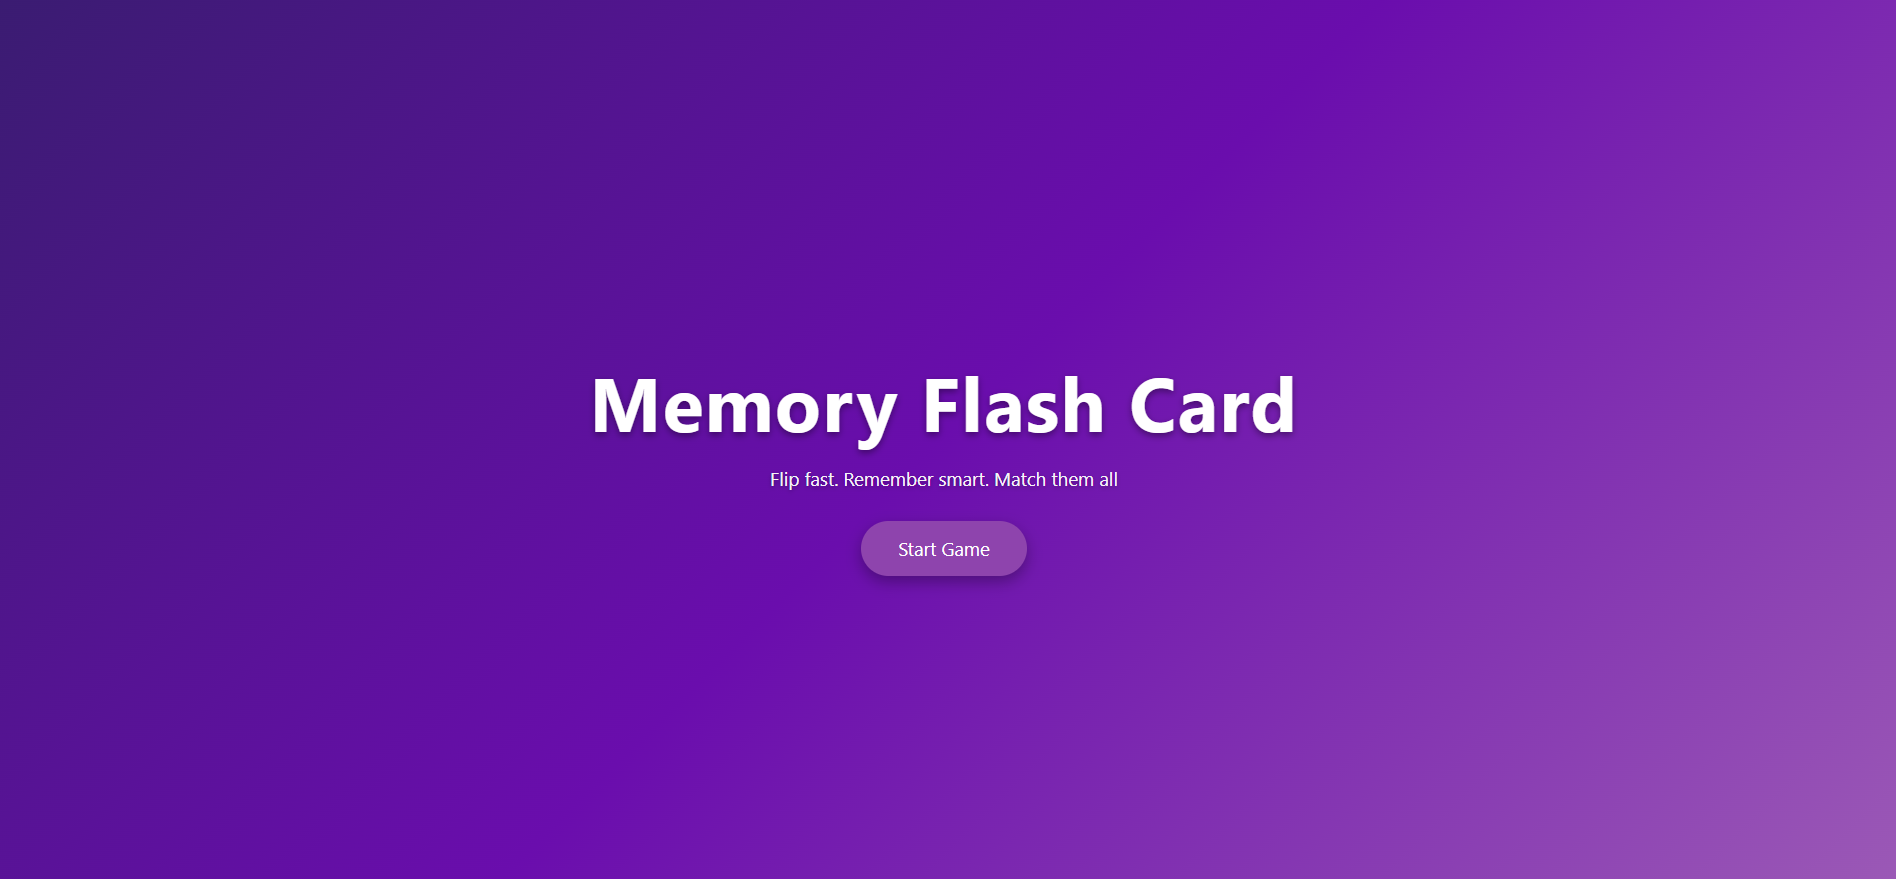
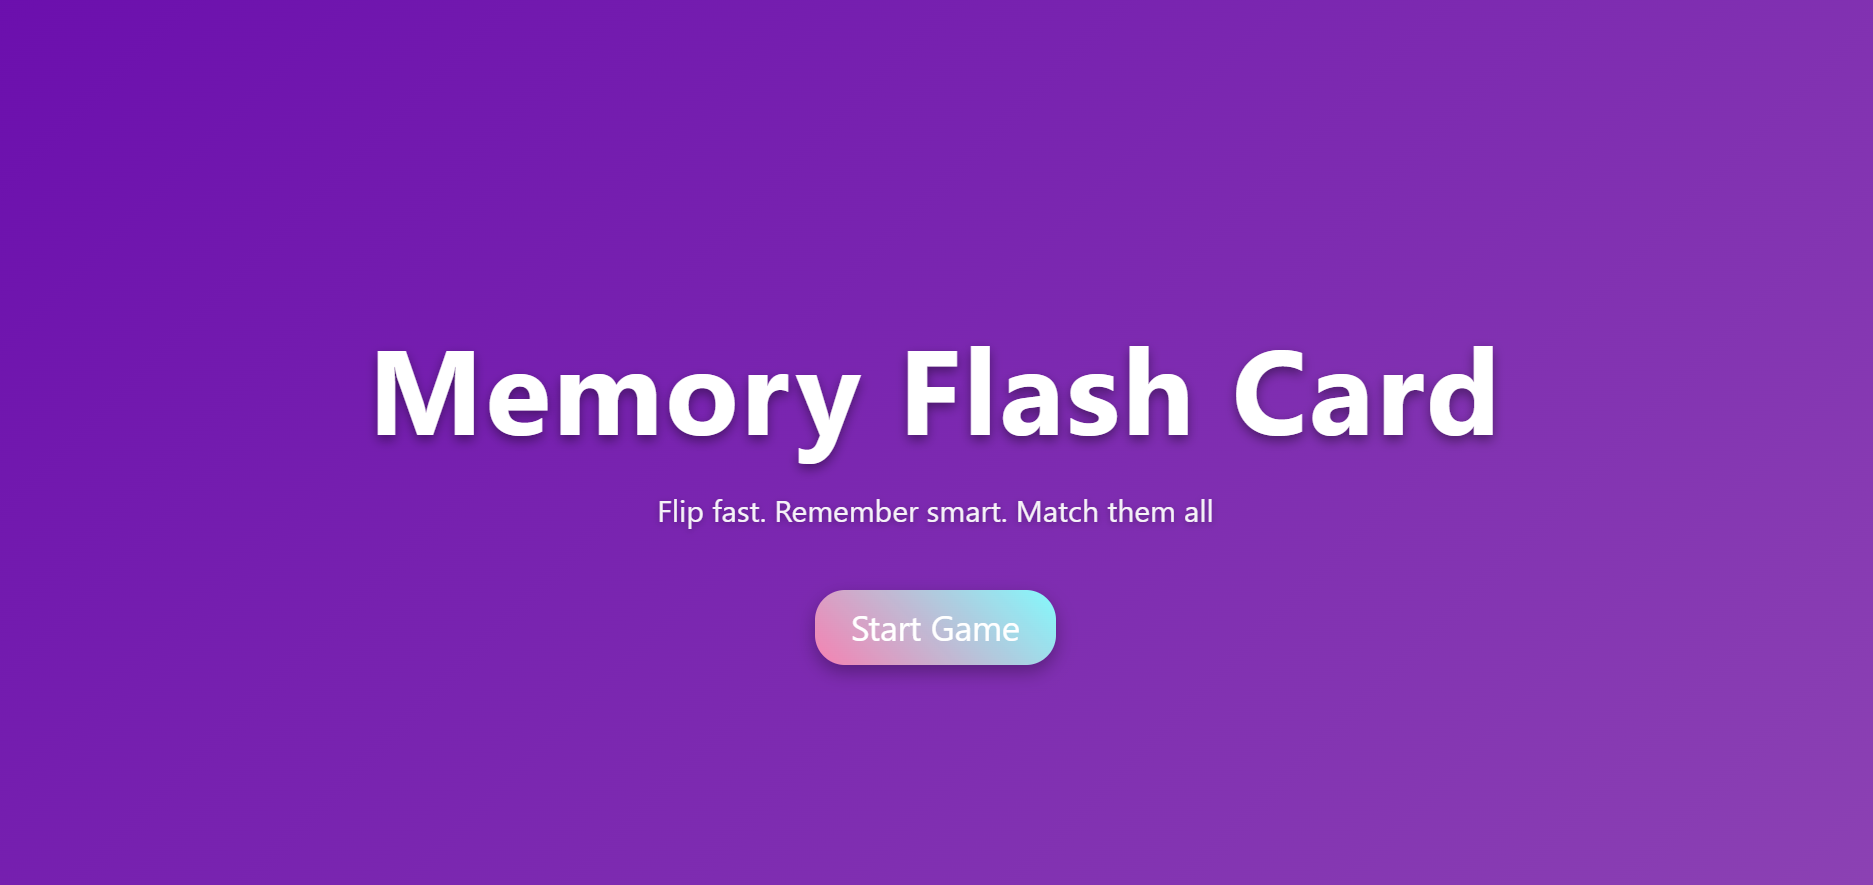
update

diff --git a/JavaScript/Easy.js b/JavaScript/Easy.js
@@ -144,13 +144,15 @@ function updateTimer(){
 }
 
 function updateCard(){
+
+    // Update moves and matches and score 
     movesE.textContent = moves
     matchesE.textContent = matches + ' / ' + cardsImages.length
     scoreE.textContent = score
 
+    // Convert seconds to minute:second format
     const minute = Math.floor(seconds/60)
     const second = seconds % 60 
-
     timeE.textContent = minute + ':' + (second<10 ? '0':'') +second
 }
 

diff --git a/HTML/Medium.html b/HTML/Medium.html
@@ -4,7 +4,7 @@
     <meta charset="UTF-8">
     <meta name="viewport" content="width=device-width, initial-scale=1.0">
     <script defer src="../JavaScript/Medium.js"></script>
-    <link rel="stylesheet" href="../CSS/Medium.css">
+    <link rel="stylesheet" href="../CSS/Style.css">
     <title>Memory Flash Card</title>
 </head>
 <body>

diff --git a/HTML/Easy.html b/HTML/Easy.html
@@ -4,7 +4,7 @@
     <meta charset="UTF-8">
     <meta name="viewport" content="width=device-width, initial-scale=1.0">
     <script defer src="../JavaScript/Easy.js"></script>
-    <link rel="stylesheet" href="../CSS/Easy.css">
+    <link rel="stylesheet" href="../CSS/Style.css">
     <title>Memory Flash Card</title>
 </head>
 <body>

diff --git a/README.md b/README.md
@@ -42,16 +42,19 @@
 ![Start Page](Screenshots/Start.png)
 
 #### levels Page
-![levels Page](Screenshots/levels.png)
+![levels Page](Screenshots/level.png)
 
 #### Easy level Page
-![Easy level Page]()
+![Easy level Page](Screenshots/Easy.png)
 
 #### Medium level Page
-![Medium level Page]()
+![Medium level Page](Screenshots/Medium.png)
 
 #### Hard level Page
-![Hard level Page]()
+![Hard level Page](Screenshots/Hard.png)
+
+#### win Page
+![win Page](Screenshots/win.png)
 
 ### ***Future Updates***
 - [ ] More Difficulty Levels – Add Extreme mode with larger grids.
